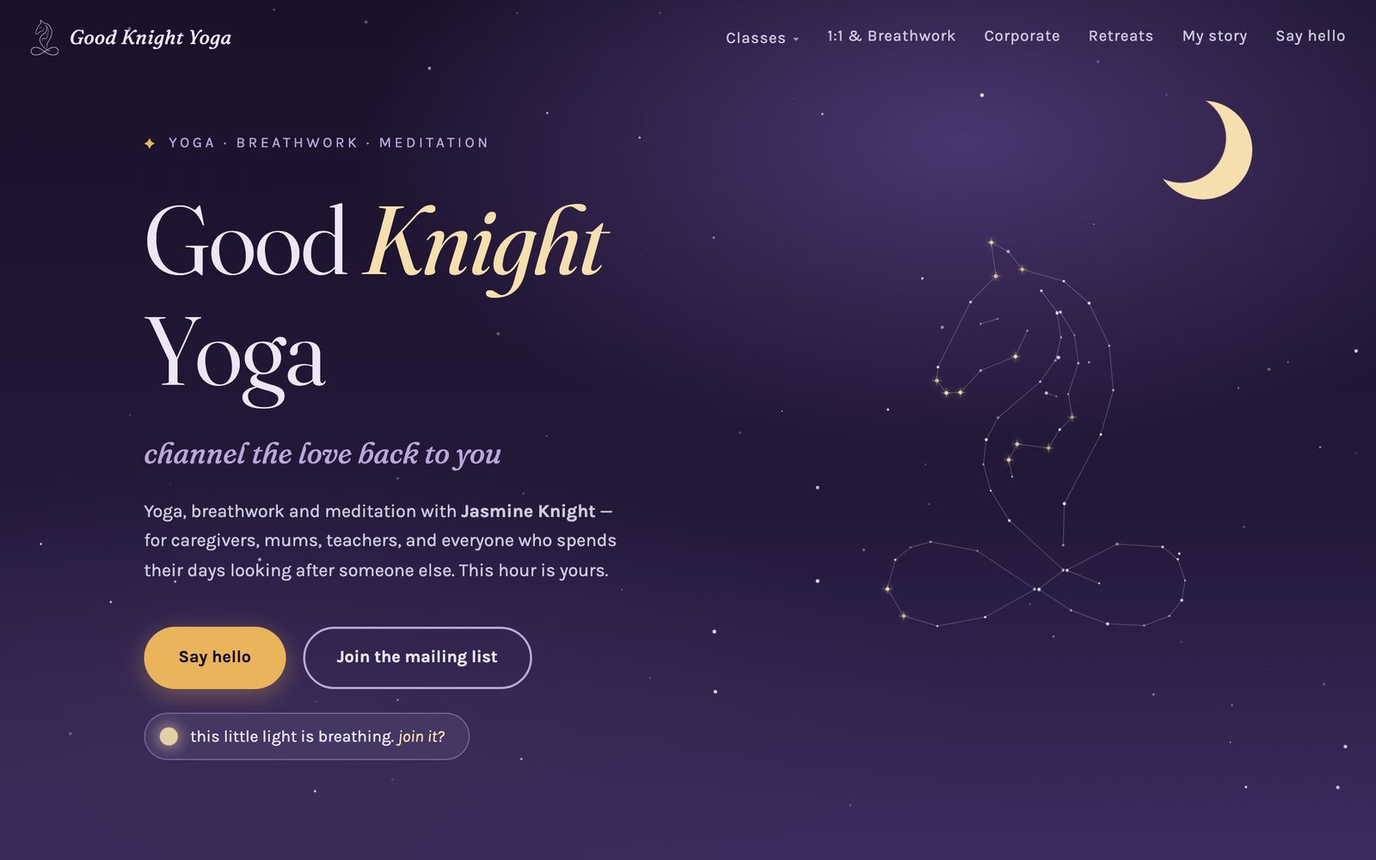
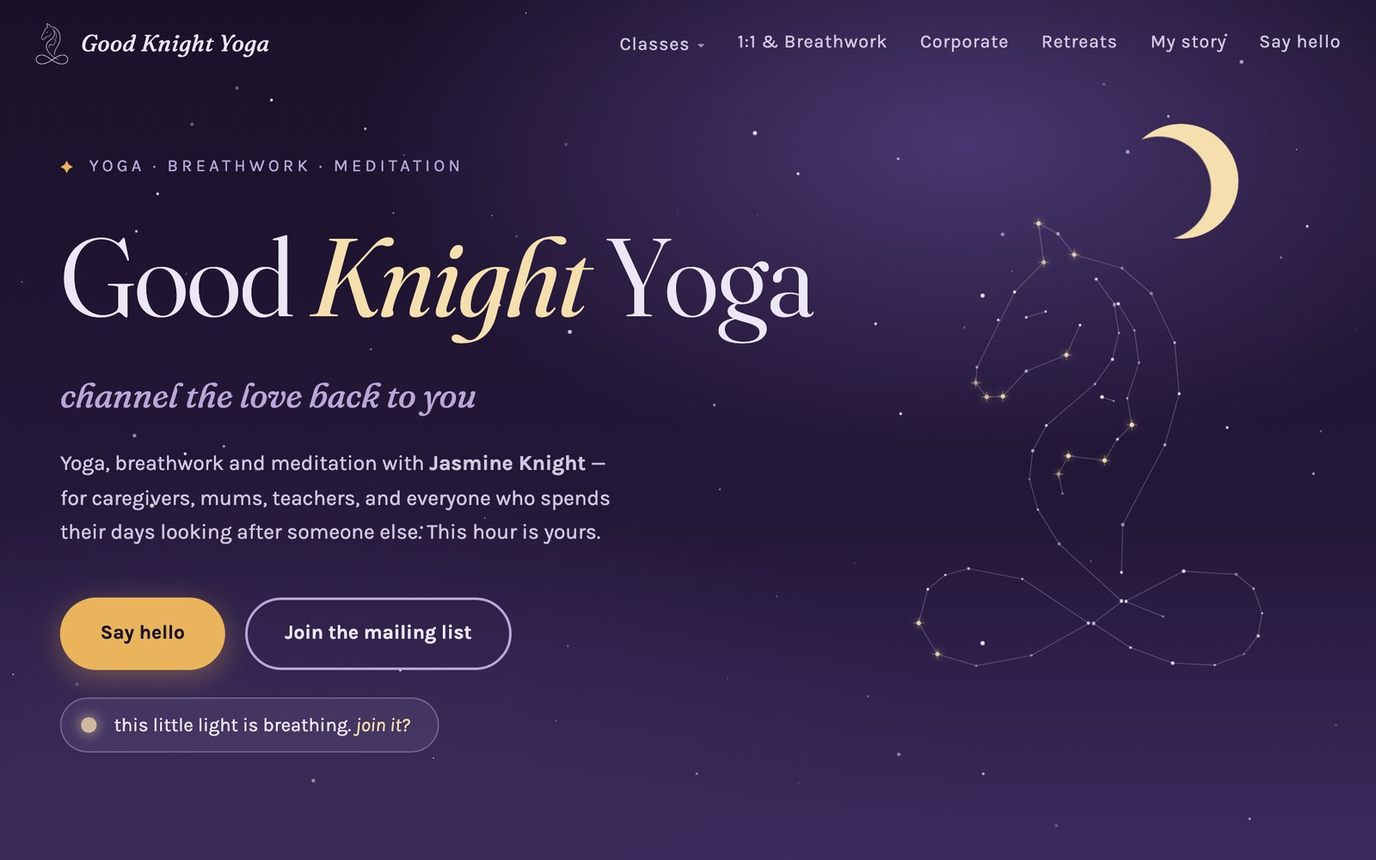
feat: showcase PI and SS as the bigger builds; realistic phone frames
- Homepage and Work page: Performance Interpreting and The Sonic
  Sanctuary get full laptop + phone showcases with stats
- Phone frames get a status bar and dynamic island so rounded corners
  no longer clip client sites' headers; phone overlaps the laptop less
- GKY desktop recaptured so the knight constellation reads clearly

Claude-Session: https://claude.ai/code/session_012WRTUKombPQdfMrQta7MTB

diff --git a/index.html b/index.html
@@ -75,7 +75,7 @@
         .hero { padding: 72px 24px 96px; overflow: hidden; }
         .hero .wrap { display: grid; grid-template-columns: 1.05fr 0.95fr; gap: 40px; align-items: center; }
         .hero .wrap > * { min-width: 0; }
-        .changes .wrap > *, .home .wrap > *, .asks-grid > * { min-width: 0; }
+        .changes .wrap > *, .asks-grid > * { min-width: 0; }
         .hero h1 { font-size: clamp(50px, 7.6vw, 104px); color: var(--ink); margin-bottom: 30px; }
         .hero h1 .u { position: relative; white-space: nowrap; }
         .hero h1 .u svg { position: absolute; left: -2%; bottom: -0.12em; width: 104%; height: 0.3em; overflow: visible; }
@@ -170,7 +170,7 @@
         .ch-shot { display: none; }
 
         .stage { position: sticky; top: 96px; height: calc(100vh - 136px); display: flex; align-items: center; }
-        .stage-inner { position: relative; width: 100%; padding-right: 90px; }
+        .stage-inner { position: relative; width: 100%; padding-right: 22%; }
         .browser { border-radius: 12px; overflow: hidden; background: #1b2a3a; box-shadow: 0 40px 80px rgba(0,0,0,0.5); }
         .browser-bar { height: 30px; display: flex; align-items: center; gap: 6px; padding: 0 12px; background: #24364a; }
         .browser-bar i { width: 9px; height: 9px; border-radius: 50%; background: rgba(255,255,255,0.22); }
@@ -178,9 +178,15 @@
         .screens { position: relative; aspect-ratio: 16 / 10; }
         .screens img { position: absolute; inset: 0; width: 100%; height: 100%; object-fit: cover; object-position: top; opacity: 0; transform: scale(1.03); transition: opacity 0.6s ease, transform 0.9s cubic-bezier(.2,.9,.3,1); }
         .screens img.on { opacity: 1; transform: scale(1); }
-        .phone { position: absolute; right: 0; bottom: -34px; width: 30%; max-width: 200px; border-radius: 26px; border: 7px solid #060e17; background: #060e17; overflow: hidden; box-shadow: 0 30px 60px rgba(0,0,0,0.6); }
+        .phone { position: absolute; right: 0; bottom: -34px; width: 26%; max-width: 200px; border-radius: 26px; border: 7px solid #060e17; background: #060e17; overflow: hidden; box-shadow: 0 30px 60px rgba(0,0,0,0.6); }
         .phone .screens { aspect-ratio: 9 / 19.5; }
-        .phone img { border-radius: 19px; }
+        .phone .screens img { border-radius: 0 0 11cqw 11cqw; }
+        /* Phone frame: status bar so curved corners never clip the site */
+        .phone { container-type: inline-size; background: #0b1622; border-color: #060e17; border-radius: 15% / 7%; }
+        .phone::before { content: '9:41'; position: absolute; top: 3.4cqw; left: 10cqw; z-index: 2; font: 600 5.2cqw/1 'Inter', sans-serif; color: #fff; letter-spacing: 0.02em; }
+        .phone::after { content: ''; position: absolute; top: 2.6cqw; left: 50%; transform: translateX(-50%); width: 30cqw; height: 7cqw; border-radius: 7cqw; background: #000; z-index: 2; }
+        .phone > img, .phone > .screens { margin-top: 12%; border-radius: 0 0 11cqw 11cqw; }
+
         .stage-dots { position: absolute; left: 0; bottom: -64px; display: flex; gap: 8px; }
         .stage-dots span { width: 26px; height: 4px; border-radius: 2px; background: rgba(255,255,255,0.18); transition: background 0.3s, width 0.3s; }
         .stage-dots span.on { background: #ff6f20; width: 44px; }
@@ -236,18 +242,28 @@
         .prices-foot { margin-top: 38px; display: flex; justify-content: space-between; align-items: center; gap: 20px; flex-wrap: wrap; }
         .prices-foot p { font-family: var(--mono); font-size: 13px; letter-spacing: 0.04em; color: var(--muted); }
 
-        /* ── Closer to home ───────────────────────────────────────── */
-        .home { background: var(--ink); color: #fff; padding: 110px 24px; }
-        .home .wrap { display: grid; grid-template-columns: 0.9fr 1.1fr; gap: 64px; align-items: start; }
-        .home h2 { font-size: clamp(36px, 4.6vw, 58px); color: #fff; margin-bottom: 22px; }
-        .home p { font-size: 17.5px; color: rgba(255,255,255,0.7); line-height: 1.65; margin-bottom: 16px; max-width: 480px; }
-        .home p a { color: #ff6f20; font-weight: 600; text-decoration: none; }
-        .figures { display: grid; grid-template-columns: 1fr 1fr; gap: 1px; background: rgba(255,255,255,0.12); border: 1px solid rgba(255,255,255,0.12); border-radius: 14px; overflow: hidden; }
-        .figure { background: var(--ink); padding: 28px 26px; text-decoration: none; display: block; transition: background 0.2s; }
-        .figure:hover { background: #12253a; }
-        .figure strong { display: block; font-family: var(--display); font-weight: 800; font-size: clamp(40px, 4.4vw, 56px); letter-spacing: -0.03em; color: #ff6f20; line-height: 1; margin-bottom: 12px; }
-        .figure span { font-size: 14.5px; color: rgba(255,255,255,0.72); line-height: 1.5; display: block; }
-        .figure small { display: block; font-family: var(--mono); font-size: 10.5px; letter-spacing: 0.14em; text-transform: uppercase; color: rgba(255,255,255,0.4); margin-top: 10px; }
+        /* ── The bigger builds ─────────────────────────────────────── */
+        .big { background: var(--ink); color: #fff; padding: 110px 24px 90px; }
+        .big-head { display: flex; justify-content: space-between; align-items: flex-end; gap: 32px; flex-wrap: wrap; margin-bottom: 30px; }
+        .big h2 { font-size: clamp(38px, 5.4vw, 70px); color: #fff; }
+        .big h2 span { color: #ff6f20; }
+        .big-head p { font-size: 18px; color: rgba(255,255,255,0.68); line-height: 1.6; max-width: 440px; }
+        .big-row { display: grid; grid-template-columns: 1.15fr 0.85fr; gap: 64px; align-items: center; padding: 64px 0; border-top: 1px solid rgba(255,255,255,0.1); }
+        .big-row > * { min-width: 0; }
+        .big-row.flip { grid-template-columns: 0.85fr 1.15fr; }
+        .big-row.flip .big-shot { order: 2; }
+        .big-shot { position: relative; padding-right: 22%; margin-bottom: 24px; }
+        .big-shot .browser img, .big-shot .phone img { display: block; width: 100%; height: auto; }
+        .big-tier { font-family: var(--mono); font-size: 12px; letter-spacing: 0.14em; text-transform: uppercase; color: #ff6f20; display: block; margin-bottom: 12px; }
+        .big h3 { font-family: var(--display); font-size: clamp(30px, 3.4vw, 42px); font-weight: 800; letter-spacing: -0.03em; line-height: 1.05; color: #fff; margin-bottom: 16px; }
+        .big-row p { font-size: 17px; line-height: 1.65; color: rgba(255,255,255,0.72); margin-bottom: 24px; }
+        .big-stats { display: grid; grid-template-columns: 1fr 1fr; gap: 1px; background: rgba(255,255,255,0.12); border: 1px solid rgba(255,255,255,0.12); border-radius: 12px; overflow: hidden; margin-bottom: 22px; }
+        .big-stats div { background: var(--ink); padding: 18px 18px 16px; }
+        .big-stats strong { display: block; font-family: var(--display); font-weight: 800; font-size: clamp(32px, 3.4vw, 44px); letter-spacing: -0.03em; color: #ff6f20; line-height: 1; margin-bottom: 8px; }
+        .big-stats span { font-size: 13.5px; color: rgba(255,255,255,0.7); line-height: 1.45; display: block; }
+        .big-links { display: flex; gap: 22px; flex-wrap: wrap; }
+        .big-links a { color: #ff6f20; font-weight: 700; text-decoration: none; font-size: 16px; }
+        .big-links a:hover { text-decoration: underline; text-underline-offset: 4px; }
 
         /* ── About ────────────────────────────────────────────────── */
         .me { padding: 100px 24px; }
@@ -274,14 +290,16 @@
 
         /* ── Responsive ───────────────────────────────────────────── */
         @media (max-width: 960px) {
-            .hero .wrap, .changes .wrap, .home .wrap { grid-template-columns: 1fr; }
+            .hero .wrap, .changes .wrap { grid-template-columns: 1fr; }
+            .big-row, .big-row.flip { grid-template-columns: 1fr; gap: 28px; padding: 48px 0; }
+            .big-row.flip .big-shot { order: 0; }
             .stack-holder { max-width: 540px; margin: 10px auto 0; }
             .asks-grid { grid-template-columns: 1fr; gap: 0; }
             .stage { display: none; }
             .chapter { min-height: 0; padding: 56px 0; border-top: 1px solid rgba(255,255,255,0.1); }
-            .ch-shot { display: block; position: relative; margin: 6px 0 26px; padding-right: 22%; }
+            .ch-shot { display: block; position: relative; margin: 6px 0 26px; padding-right: 28%; }
             .ch-shot .browser img { display: block; width: 100%; height: auto; }
-            .ch-shot .phone { width: 34%; bottom: -22px; }
+            .ch-shot .phone { width: 32%; bottom: -22px; }
             .ch-shot .phone img { display: block; width: 100%; height: auto; }
             .chat { margin: 0 auto; }
             .changes .chat-note { margin: 12px auto 0; text-align: center; }
@@ -293,14 +311,12 @@
             .hero-sub { font-size: 18px; }
             .ticket-ask p { font-size: 19px; }
             .asks { padding: 80px 20px 20px; }
-            .changes, .method, .prices, .home { padding: 80px 20px; }
+            .changes, .method, .prices, .big { padding: 80px 20px; }
             .me { padding: 72px 20px; }
             .me .wrap { grid-template-columns: 1fr; gap: 28px; }
             .me img { width: 120px; height: 120px; }
             .beats { grid-template-columns: 1fr; border-top: 0; }
             .beat, .beat + .beat { padding: 22px 0; border-right: 0; border-top: 2px solid var(--ink); }
-            .figures { grid-template-columns: 1fr 1fr; }
-            .figure { padding: 22px 18px; }
             .final { padding: 96px 20px 120px; }
             .dock {
                 display: flex; position: fixed; left: 12px; right: 12px; bottom: 12px; z-index: 90;
@@ -681,21 +697,50 @@
     </div>
 </section>
 
-<!-- ── Closer to home ─────────────────────────────────────────────── -->
-<section class="home dark">
+<!-- ── The bigger builds ──────────────────────────────────────────── -->
+<section class="big dark">
     <div class="wrap">
-        <div class="rv">
-            <span class="eyebrow">Closer to home</span>
-            <h2 class="display">I run businesses on this too.</h2>
-            <p><a href="/projects/sonic-sanctuary">The Sonic Sanctuary</a> is my own sound therapy practice. I build and run the tech behind <a href="/projects/performance-interpreting">Performance Interpreting</a>, a national BSL interpretation agency.</p>
-            <p>Everything I build for clients gets lived with here first. When something's awkward, I feel it before you do.</p>
+        <div class="big-head rv">
+            <div>
+                <span class="eyebrow">The bigger builds</span>
+                <h2 class="display">When it's the whole business.<br><span>I run these too.</span></h2>
+            </div>
+            <p>Apps, booking platforms, the systems a business runs on day to day. These two are in use every day, and I live with both, so anything awkward gets fixed before a client ever meets it.</p>
         </div>
-        <div class="figures rv">
-            <a class="figure" href="/projects/pi-events-app"><strong>800+</strong><span>PI Events App downloads in its first month</span><small>Performance Interpreting</small></a>
-            <a class="figure" href="/projects/performance-interpreting"><strong>&pound;5k</strong><span>of interpreter bookings through the app, month one</span><small>Performance Interpreting</small></a>
-            <a class="figure" href="/projects/sonic-sanctuary"><strong>6&rarr;1</strong><span>separate tools replaced by one system, run from a phone</span><small>The Sonic Sanctuary</small></a>
-            <a class="figure" href="/projects/sonic-sanctuary"><strong>5h+</strong><span>of admin saved every week</span><small>The Sonic Sanctuary</small></a>
-        </div>
+
+        <article class="big-row rv">
+            <div class="big-shot">
+                <div class="browser"><div class="browser-bar"><i></i><i></i><i></i><span>performanceinterpreting.co.uk</span></div><img src="/images/projects/performance-interpreting-desktop.jpg" alt="Performance Interpreting website on a laptop: a BSL interpreter performing at a festival" width="1600" height="1000" loading="lazy"></div>
+                <div class="phone"><img src="/images/projects/performance-interpreting-mobile.jpg" alt="Performance Interpreting interpreted events listing on a phone" width="780" height="1688" loading="lazy"></div>
+            </div>
+            <div>
+                <span class="big-tier">BSL interpretation &middot; UK &amp; Ireland</span>
+                <h3>Performance Interpreting</h3>
+                <p>The UK and Ireland's largest performance interpreting provider. I build and run its whole digital side: the main website, the PI Academy training platform, a live listing of every interpreted event that updates itself, and the PI Events App for iOS and Android.</p>
+                <div class="big-stats">
+                    <div><strong>800+</strong><span>app downloads in the first month</span></div>
+                    <div><strong>&pound;5k</strong><span>of interpreter bookings through the app, month one</span></div>
+                </div>
+                <div class="big-links"><a href="/projects/performance-interpreting">The platform &rarr;</a><a href="/projects/pi-events-app">The app &rarr;</a></div>
+            </div>
+        </article>
+
+        <article class="big-row flip rv">
+            <div class="big-shot">
+                <div class="browser"><div class="browser-bar"><i></i><i></i><i></i><span>thesonicsanctuary.uk</span></div><img src="/images/projects/sonic-sanctuary-desktop.jpg" alt="The Sonic Sanctuary website on a laptop" width="1600" height="1000" loading="lazy"></div>
+                <div class="phone"><img src="/images/projects/sonic-sanctuary-mobile.jpg" alt="The Sonic Sanctuary website on a phone" width="780" height="1688" loading="lazy"></div>
+            </div>
+            <div>
+                <span class="big-tier">Sound therapy &middot; Maidstone</span>
+                <h3>The Sonic Sanctuary</h3>
+                <p>My own practice, run entirely from a phone. Bookings, Stripe payments, intro passes, events and automated WhatsApp messages all live in one system, and the public website reads from the same place, so nothing is ever typed twice.</p>
+                <div class="big-stats">
+                    <div><strong>6&rarr;1</strong><span>separate tools replaced by one system</span></div>
+                    <div><strong>5h+</strong><span>of admin saved every week</span></div>
+                </div>
+                <div class="big-links"><a href="/projects/sonic-sanctuary">How it works &rarr;</a></div>
+            </div>
+        </article>
     </div>
 </section>
 

diff --git a/projects.html b/projects.html
@@ -34,14 +34,20 @@
         .case:last-child { border-bottom: 0; }
         .case:nth-child(even) { grid-template-columns: 0.85fr 1.15fr; }
         .case:nth-child(even) .case-shot { order: 2; }
-        .case-shot { position: relative; padding-right: 18%; }
+        .case-shot { position: relative; padding-right: 22%; }
         .case-browser { border-radius: 10px; overflow: hidden; background: #1b2a3a; box-shadow: 0 30px 60px rgba(13,27,42,0.22); transition: transform 0.4s cubic-bezier(.2,.9,.3,1); }
         .case-browser .bar { height: 26px; display: flex; align-items: center; gap: 6px; padding: 0 11px; background: #24364a; }
         .case-browser .bar i { width: 8px; height: 8px; border-radius: 50%; background: rgba(255,255,255,0.22); }
         .case-browser .bar span { margin-left: 10px; font-family: var(--mono); font-size: 11px; color: rgba(255,255,255,0.6); }
         .case-browser img { display: block; width: 100%; height: auto; }
-        .case-phone { position: absolute; right: 0; bottom: -24px; width: 30%; border-radius: 22px; border: 6px solid #060e17; background: #060e17; overflow: hidden; box-shadow: 0 24px 48px rgba(13,27,42,0.3); transition: transform 0.4s cubic-bezier(.2,.9,.3,1); }
-        .case-phone img { display: block; width: 100%; height: auto; border-radius: 16px; }
+        .case-phone { position: absolute; right: 0; bottom: -24px; width: 26%; border-radius: 22px; border: 6px solid #060e17; background: #060e17; overflow: hidden; box-shadow: 0 24px 48px rgba(13,27,42,0.3); transition: transform 0.4s cubic-bezier(.2,.9,.3,1); }
+        .case-phone img { display: block; width: 100%; height: auto; }
+        /* Phone frame: status bar so curved corners never clip the site */
+        .case-phone { container-type: inline-size; background: #0b1622; border-color: #060e17; border-radius: 15% / 7%; }
+        .case-phone::before { content: '9:41'; position: absolute; top: 3.4cqw; left: 10cqw; z-index: 2; font: 600 5.2cqw/1 'Inter', sans-serif; color: #fff; letter-spacing: 0.02em; }
+        .case-phone::after { content: ''; position: absolute; top: 2.6cqw; left: 50%; transform: translateX(-50%); width: 30cqw; height: 7cqw; border-radius: 7cqw; background: #000; z-index: 2; }
+        .case-phone > img { margin-top: 12%; border-radius: 0 0 11cqw 11cqw; }
+
         .case:hover .case-browser { transform: translateY(-6px); }
         .case:hover .case-phone { transform: translateY(-12px) rotate(2deg); }
         .case-sector { font-family: var(--mono); font-size: 12px; letter-spacing: 0.12em; text-transform: uppercase; color: #c94d0c; margin-bottom: 12px; display: block; }
@@ -53,17 +59,20 @@
         .case-more { font-weight: 700; color: #c94d0c; font-size: 16px; }
         .case:hover .case-more { text-decoration: underline; text-underline-offset: 4px; }
 
-        .home-work { background: var(--ink); color: #fff; padding: 96px 24px; }
+        .home-work { background: var(--ink); color: #fff; padding: 96px 24px 56px; }
         .home-work h2 { font-size: clamp(34px, 4.6vw, 56px); font-weight: 800; letter-spacing: -0.03em; line-height: 1.02; color: #fff; margin-bottom: 18px; }
-        .home-work > .w-inner > p { font-size: 18px; color: rgba(255,255,255,0.68); line-height: 1.6; max-width: 620px; margin-bottom: 44px; }
-        .hw-grid { display: grid; grid-template-columns: repeat(3, 1fr); gap: 20px; }
-        .hw-card { display: block; text-decoration: none; border: 1px solid rgba(255,255,255,0.12); border-radius: 14px; padding: 26px 24px; transition: border-color 0.2s, background 0.2s, transform 0.25s; }
-        .hw-card:hover { border-color: #ff6f20; background: rgba(255,255,255,0.03); transform: translateY(-4px); }
-        .hw-card .case-sector { color: #ff6f20; }
-        .hw-card h3 { font-size: 22px; font-weight: 800; letter-spacing: -0.02em; color: #fff; margin-bottom: 10px; }
-        .hw-card p { font-size: 15px; color: rgba(255,255,255,0.68); line-height: 1.6; margin-bottom: 18px; }
-        .hw-card strong { display: block; font-size: 34px; font-weight: 800; letter-spacing: -0.03em; color: #ff6f20; line-height: 1; margin-bottom: 4px; font-family: 'Bricolage Grotesque', sans-serif; }
-        .hw-card small { font-size: 13px; color: rgba(255,255,255,0.55); }
+        .home-work .lede { font-size: 18px; color: rgba(255,255,255,0.68); line-height: 1.6; max-width: 640px; margin-bottom: 8px; }
+        .home-work .case { border-bottom-color: rgba(255,255,255,0.12); }
+        .home-work .case h2 { color: #fff; font-size: clamp(30px, 3.6vw, 44px); margin-bottom: 14px; }
+        .home-work .case-sector { color: #ff6f20; }
+        .home-work .case p { font-size: 16.5px; line-height: 1.65; color: rgba(255,255,255,0.72); margin-bottom: 18px; }
+        .home-work .case-browser { box-shadow: 0 30px 60px rgba(0,0,0,0.5); }
+        .hw-stats { display: flex; gap: 28px; flex-wrap: wrap; margin-bottom: 18px; }
+        .hw-stats strong { display: block; font-family: 'Bricolage Grotesque', sans-serif; font-size: 36px; font-weight: 800; letter-spacing: -0.03em; color: #ff6f20; line-height: 1; margin-bottom: 4px; }
+        .hw-stats small { font-size: 13px; color: rgba(255,255,255,0.6); }
+        .home-work .case-more { color: #ff6f20; }
+        .hw-also { font-size: 15px; color: rgba(255,255,255,0.6); padding: 28px 0 0; }
+        .hw-also a { color: #ff6f20; font-weight: 700; text-decoration: none; }
 
         .w-cta { padding: 100px 24px; text-align: center; }
         .w-cta h2 { font-size: clamp(36px, 5vw, 64px); font-weight: 800; letter-spacing: -0.035em; line-height: 1; color: var(--ink); margin-bottom: 18px; }
@@ -75,12 +84,12 @@
         @media (max-width: 860px) {
             .case, .case:nth-child(even) { grid-template-columns: 1fr; gap: 36px; }
             .case:nth-child(even) .case-shot { order: 0; }
-            .hw-grid { grid-template-columns: 1fr; }
         }
         @media (max-width: 640px) {
             .w-hero { padding: 56px 20px 52px; }
             .clients { padding: 48px 20px 20px; }
             .home-work, .w-cta { padding: 72px 20px; }
+            .home-work { padding-bottom: 40px; }
         }
     </style>
 </head>
@@ -169,29 +178,45 @@
 
 <section class="home-work">
     <div class="w-inner">
-        <span class="eyebrow">Closer to home</span>
-        <h2>Where everything gets tested first</h2>
-        <p>The Sonic Sanctuary is my own practice, and I build and run the tech behind Performance Interpreting. These are the bigger systems: the ones that run whole businesses day to day.</p>
-        <div class="hw-grid">
-            <a class="hw-card" href="/projects/performance-interpreting">
+        <span class="eyebrow">The bigger builds</span>
+        <h2>When it's the whole business</h2>
+        <p class="lede">Platforms, apps and the systems a business runs on day to day. I build and run both of these, so everything gets lived with before a client meets it.</p>
+
+        <a class="case" href="/projects/performance-interpreting">
+            <div class="case-shot">
+                <div class="case-browser"><div class="bar"><i></i><i></i><i></i><span>performanceinterpreting.co.uk</span></div><img src="/images/projects/performance-interpreting-desktop.jpg" alt="Performance Interpreting website on a laptop" width="1600" height="1000" loading="lazy"></div>
+                <div class="case-phone"><img src="/images/projects/performance-interpreting-mobile.jpg" alt="Performance Interpreting interpreted events listing on a phone" width="780" height="1688" loading="lazy"></div>
+            </div>
+            <div>
                 <span class="case-sector">BSL interpretation &middot; UK &amp; Ireland</span>
-                <h3>Performance Interpreting</h3>
-                <p>The agency's main website, the PI Academy training platform and the PI Events App, all built and run in-house.</p>
-                <strong>&pound;5k+</strong><small>bookings through the app, month one</small>
-            </a>
-            <a class="hw-card" href="/projects/pi-events-app">
-                <span class="case-sector">iOS &amp; Android app</span>
-                <h3>PI Events App</h3>
-                <p>Every PI-delivered BSL and ISL event in one place, with AI-drafted access requests and BSL-first onboarding.</p>
-                <strong>800+</strong><small>downloads in the first month</small>
-            </a>
-            <a class="hw-card" href="/projects/sonic-sanctuary">
+                <h2>Performance Interpreting</h2>
+                <p>The main website, the PI Academy training platform, a self-updating listing of every interpreted event, and the PI Events App for iOS and Android.</p>
+                <div class="hw-stats">
+                    <div><strong>800+</strong><small>app downloads, month one</small></div>
+                    <div><strong>&pound;5k+</strong><small>bookings through the app, month one</small></div>
+                </div>
+                <span class="case-more">Read the story &rarr;</span>
+            </div>
+        </a>
+
+        <a class="case" href="/projects/sonic-sanctuary">
+            <div class="case-shot">
+                <div class="case-browser"><div class="bar"><i></i><i></i><i></i><span>thesonicsanctuary.uk</span></div><img src="/images/projects/sonic-sanctuary-desktop.jpg" alt="The Sonic Sanctuary website on a laptop" width="1600" height="1000" loading="lazy"></div>
+                <div class="case-phone"><img src="/images/projects/sonic-sanctuary-mobile.jpg" alt="The Sonic Sanctuary website on a phone" width="780" height="1688" loading="lazy"></div>
+            </div>
+            <div>
                 <span class="case-sector">Sound therapy &middot; Maidstone</span>
-                <h3>The Sonic Sanctuary</h3>
-                <p>One operating system for bookings, payments, events, WhatsApp comms and the public site, run from a phone.</p>
-                <strong>6&rarr;1</strong><small>tools replaced by one system</small>
-            </a>
-        </div>
+                <h2>The Sonic Sanctuary</h2>
+                <p>My own practice, run from a phone: bookings, payments, intro passes, events and WhatsApp messages in one system that also feeds the public website.</p>
+                <div class="hw-stats">
+                    <div><strong>6&rarr;1</strong><small>tools replaced by one system</small></div>
+                    <div><strong>5h+</strong><small>admin saved every week</small></div>
+                </div>
+                <span class="case-more">Read the story &rarr;</span>
+            </div>
+        </a>
+
+        <p class="hw-also">Also: the <a href="/projects/pi-events-app">PI Events App</a>, every BSL and ISL event in one place, with AI-drafted access requests.</p>
     </div>
 </section>
 

diff --git a/case-study.css b/case-study.css
@@ -35,14 +35,20 @@
 
 /* Screenshots: desktop in a browser frame, phone overlapping */
 .cs-shots { background: var(--dark); padding: 64px 24px 72px; }
-.cs-shots-stage { position: relative; max-width: 880px; margin: 0 auto; padding-right: 120px; }
+.cs-shots-stage { position: relative; max-width: 880px; margin: 0 auto; padding-right: 170px; }
 .cs-browser { border-radius: 10px; overflow: hidden; background: #1b2a3a; box-shadow: 0 24px 60px rgba(0,0,0,0.45); }
 .cs-browser-bar { height: 28px; display: flex; align-items: center; gap: 6px; padding: 0 12px; background: #24364a; }
 .cs-browser-bar i { width: 9px; height: 9px; border-radius: 50%; background: rgba(255,255,255,0.25); }
 .cs-browser-bar span { margin-left: 12px; font-size: 11px; color: rgba(255,255,255,0.55); font-family: ui-monospace, Menlo, monospace; }
 .cs-browser img { display: block; width: 100%; height: auto; }
 .cs-phone { position: absolute; right: 0; bottom: -28px; width: 210px; border-radius: 28px; overflow: hidden; border: 7px solid #0a1520; background: #0a1520; box-shadow: 0 24px 60px rgba(0,0,0,0.55); }
-.cs-phone img { display: block; width: 100%; height: auto; border-radius: 21px; }
+.cs-phone img { display: block; width: 100%; height: auto; }
+        /* Phone frame: status bar so curved corners never clip the site */
+        .cs-phone { container-type: inline-size; background: #0b1622; border-color: #060e17; border-radius: 15% / 7%; }
+        .cs-phone::before { content: '9:41'; position: absolute; top: 3.4cqw; left: 10cqw; z-index: 2; font: 600 5.2cqw/1 'Inter', sans-serif; color: #fff; letter-spacing: 0.02em; }
+        .cs-phone::after { content: ''; position: absolute; top: 2.6cqw; left: 50%; transform: translateX(-50%); width: 30cqw; height: 7cqw; border-radius: 7cqw; background: #000; z-index: 2; }
+        .cs-phone > img { margin-top: 12%; border-radius: 0 0 11cqw 11cqw; }
+
 .cs-shots-caption { max-width: 880px; margin: 48px auto 0; font-size: 13px; color: rgba(255,255,255,0.5); }
 
 /* What was built */
@@ -85,7 +91,7 @@
     .cs-ask, .cs-built { grid-template-columns: 1fr; }
     .cs-shots { padding: 44px 20px 56px; }
     .cs-shots-stage { padding-right: 0; padding-bottom: 0; }
-    .cs-phone { position: relative; right: auto; bottom: auto; width: 62%; max-width: 240px; margin: -60px 0 0 auto; }
+    .cs-phone { position: relative; right: auto; bottom: auto; width: 46%; max-width: 220px; margin: -60px 0 0 auto; }
     .cs-shots-caption { margin-top: 24px; }
 }
 

diff --git a/projects/connected-pathways.html b/projects/connected-pathways.html
@@ -19,7 +19,7 @@
     <link rel="preconnect" href="https://fonts.gstatic.com" crossorigin>
     <link href="https://fonts.googleapis.com/css2?family=Bricolage+Grotesque:opsz,wght@12..96,400..800&family=DM+Mono:wght@400;500&family=Inter:wght@400;500;600;700;800&display=swap" rel="stylesheet">
     <link rel="stylesheet" href="/styles.css?v=15">
-    <link rel="stylesheet" href="/case-study.css?v=2">
+    <link rel="stylesheet" href="/case-study.css?v=3">
     <script type="application/ld+json">
     {
       "@context": "https://schema.org",

diff --git a/projects/good-knight-yoga.html b/projects/good-knight-yoga.html
@@ -19,7 +19,7 @@
     <link rel="preconnect" href="https://fonts.gstatic.com" crossorigin>
     <link href="https://fonts.googleapis.com/css2?family=Bricolage+Grotesque:opsz,wght@12..96,400..800&family=DM+Mono:wght@400;500&family=Inter:wght@400;500;600;700;800&display=swap" rel="stylesheet">
     <link rel="stylesheet" href="/styles.css?v=15">
-    <link rel="stylesheet" href="/case-study.css?v=2">
+    <link rel="stylesheet" href="/case-study.css?v=3">
     <script type="application/ld+json">
     {
       "@context": "https://schema.org",

diff --git a/projects/mane-london.html b/projects/mane-london.html
@@ -19,7 +19,7 @@
     <link rel="preconnect" href="https://fonts.gstatic.com" crossorigin>
     <link href="https://fonts.googleapis.com/css2?family=Bricolage+Grotesque:opsz,wght@12..96,400..800&family=DM+Mono:wght@400;500&family=Inter:wght@400;500;600;700;800&display=swap" rel="stylesheet">
     <link rel="stylesheet" href="/styles.css?v=15">
-    <link rel="stylesheet" href="/case-study.css?v=2">
+    <link rel="stylesheet" href="/case-study.css?v=3">
     <script type="application/ld+json">
     {
       "@context": "https://schema.org",
